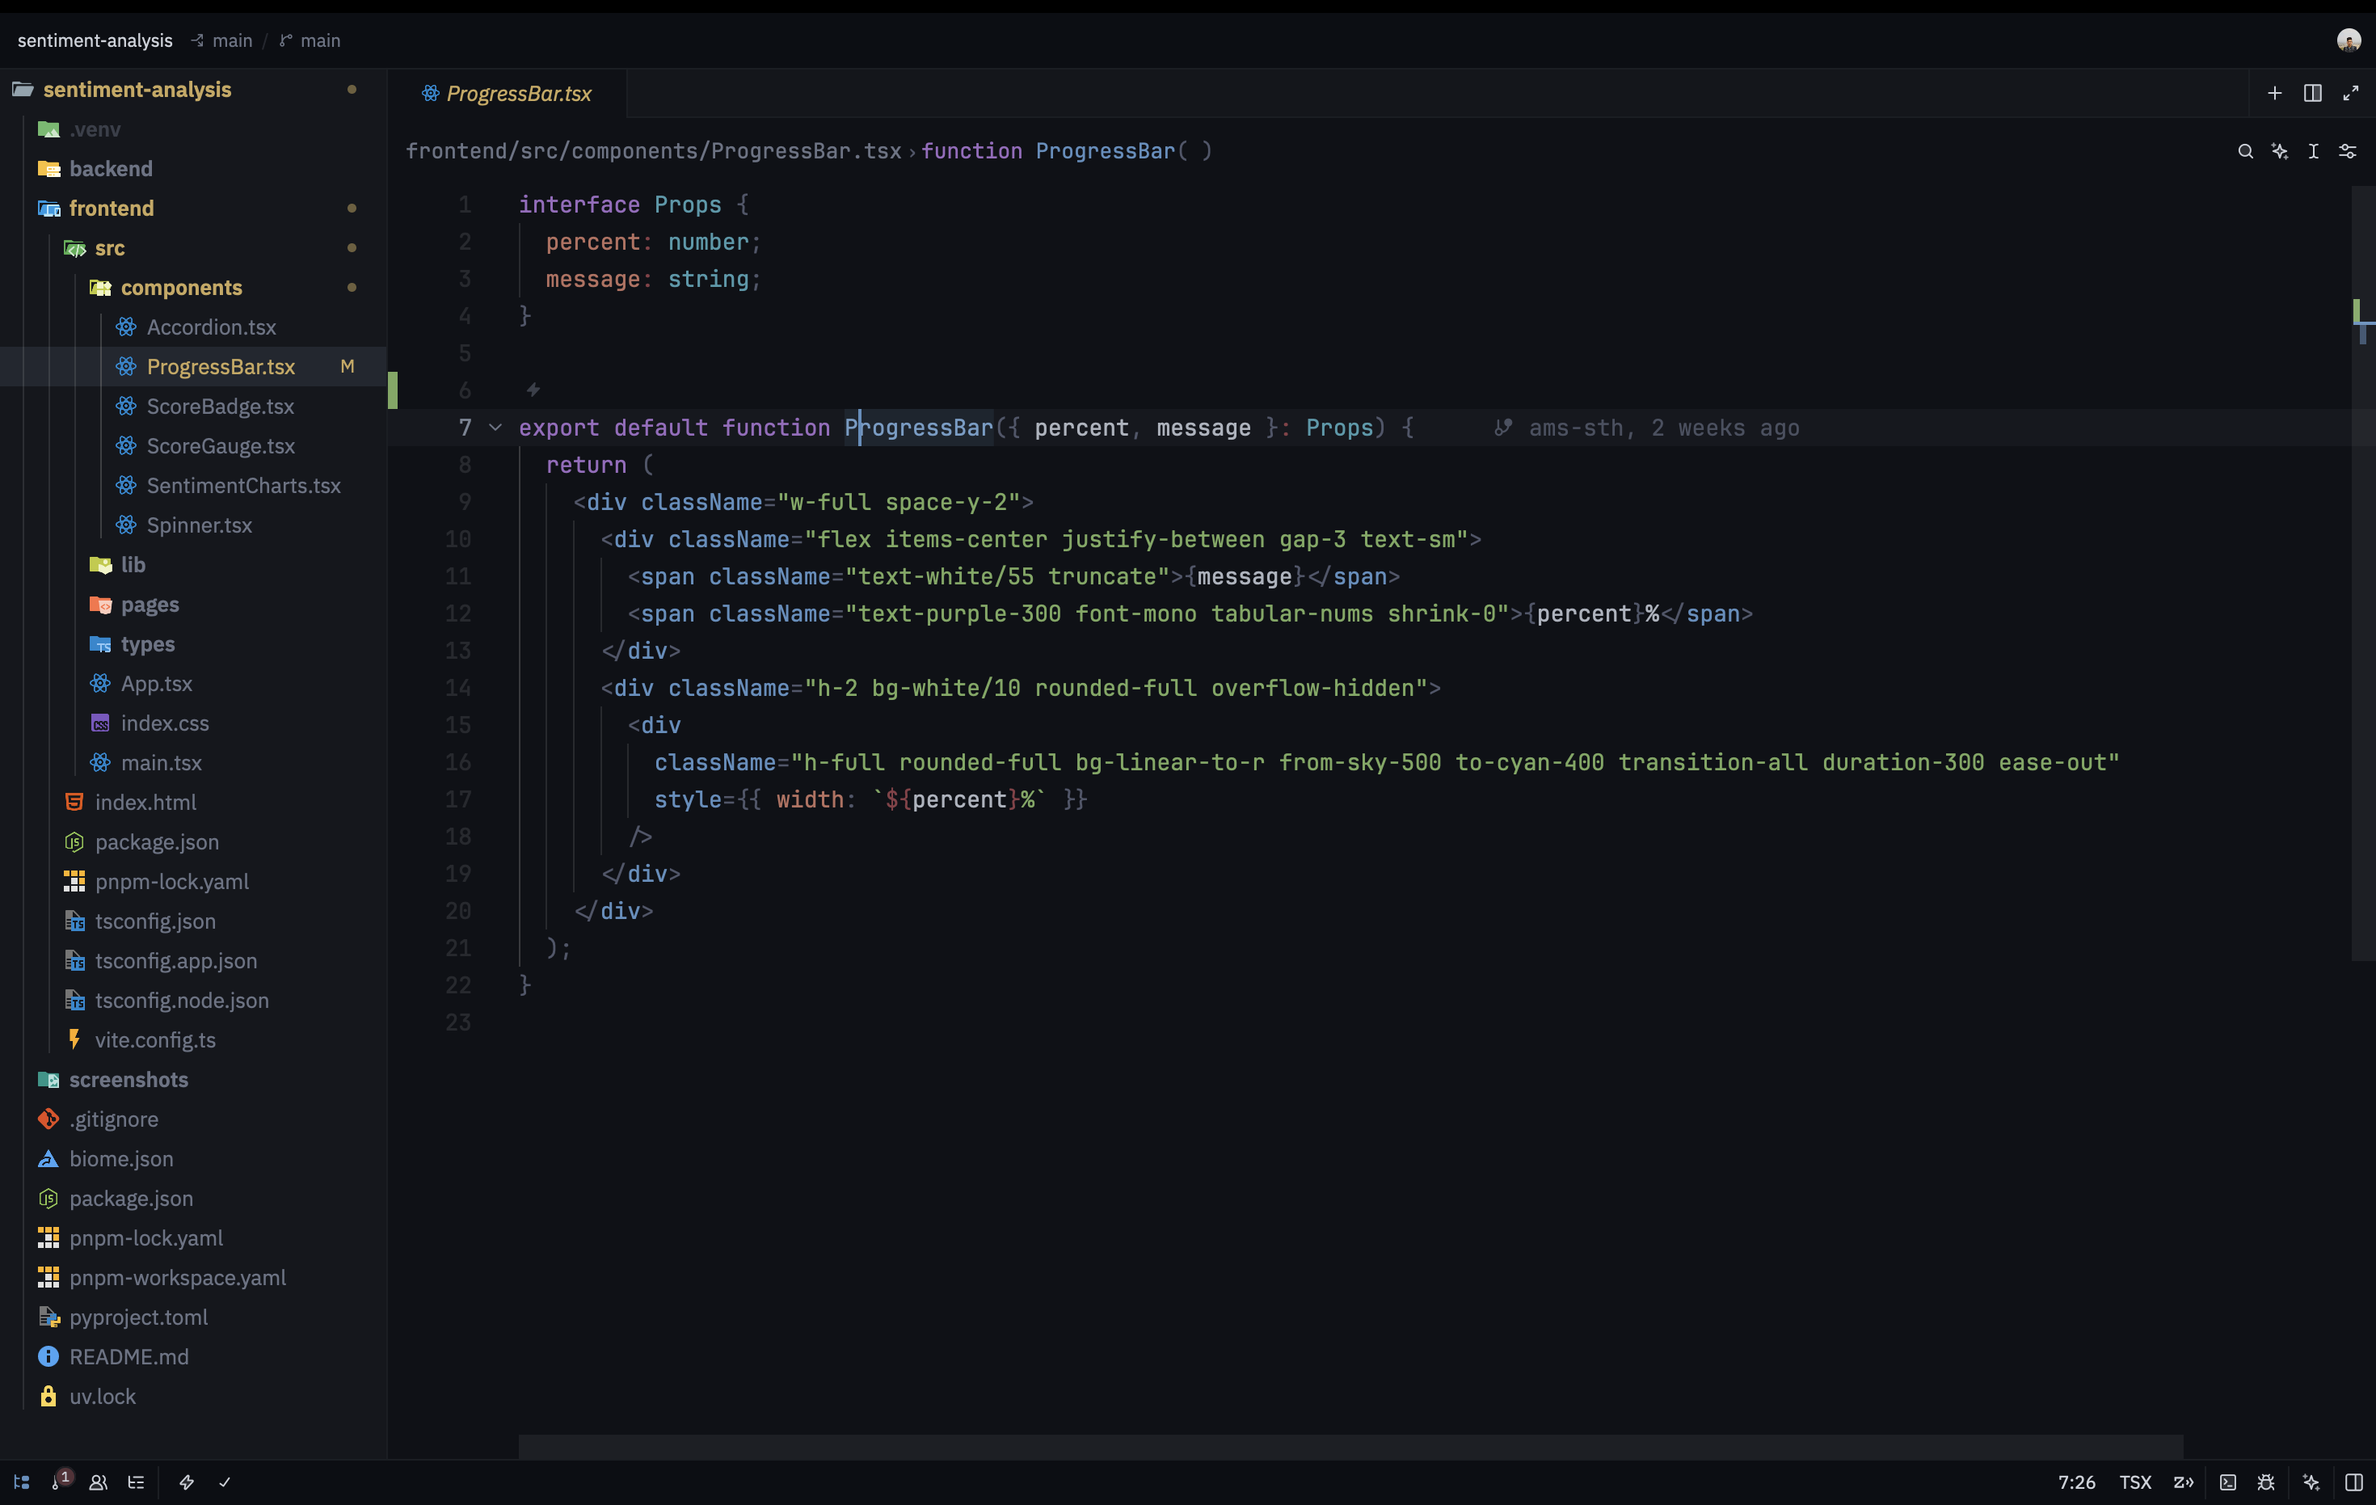
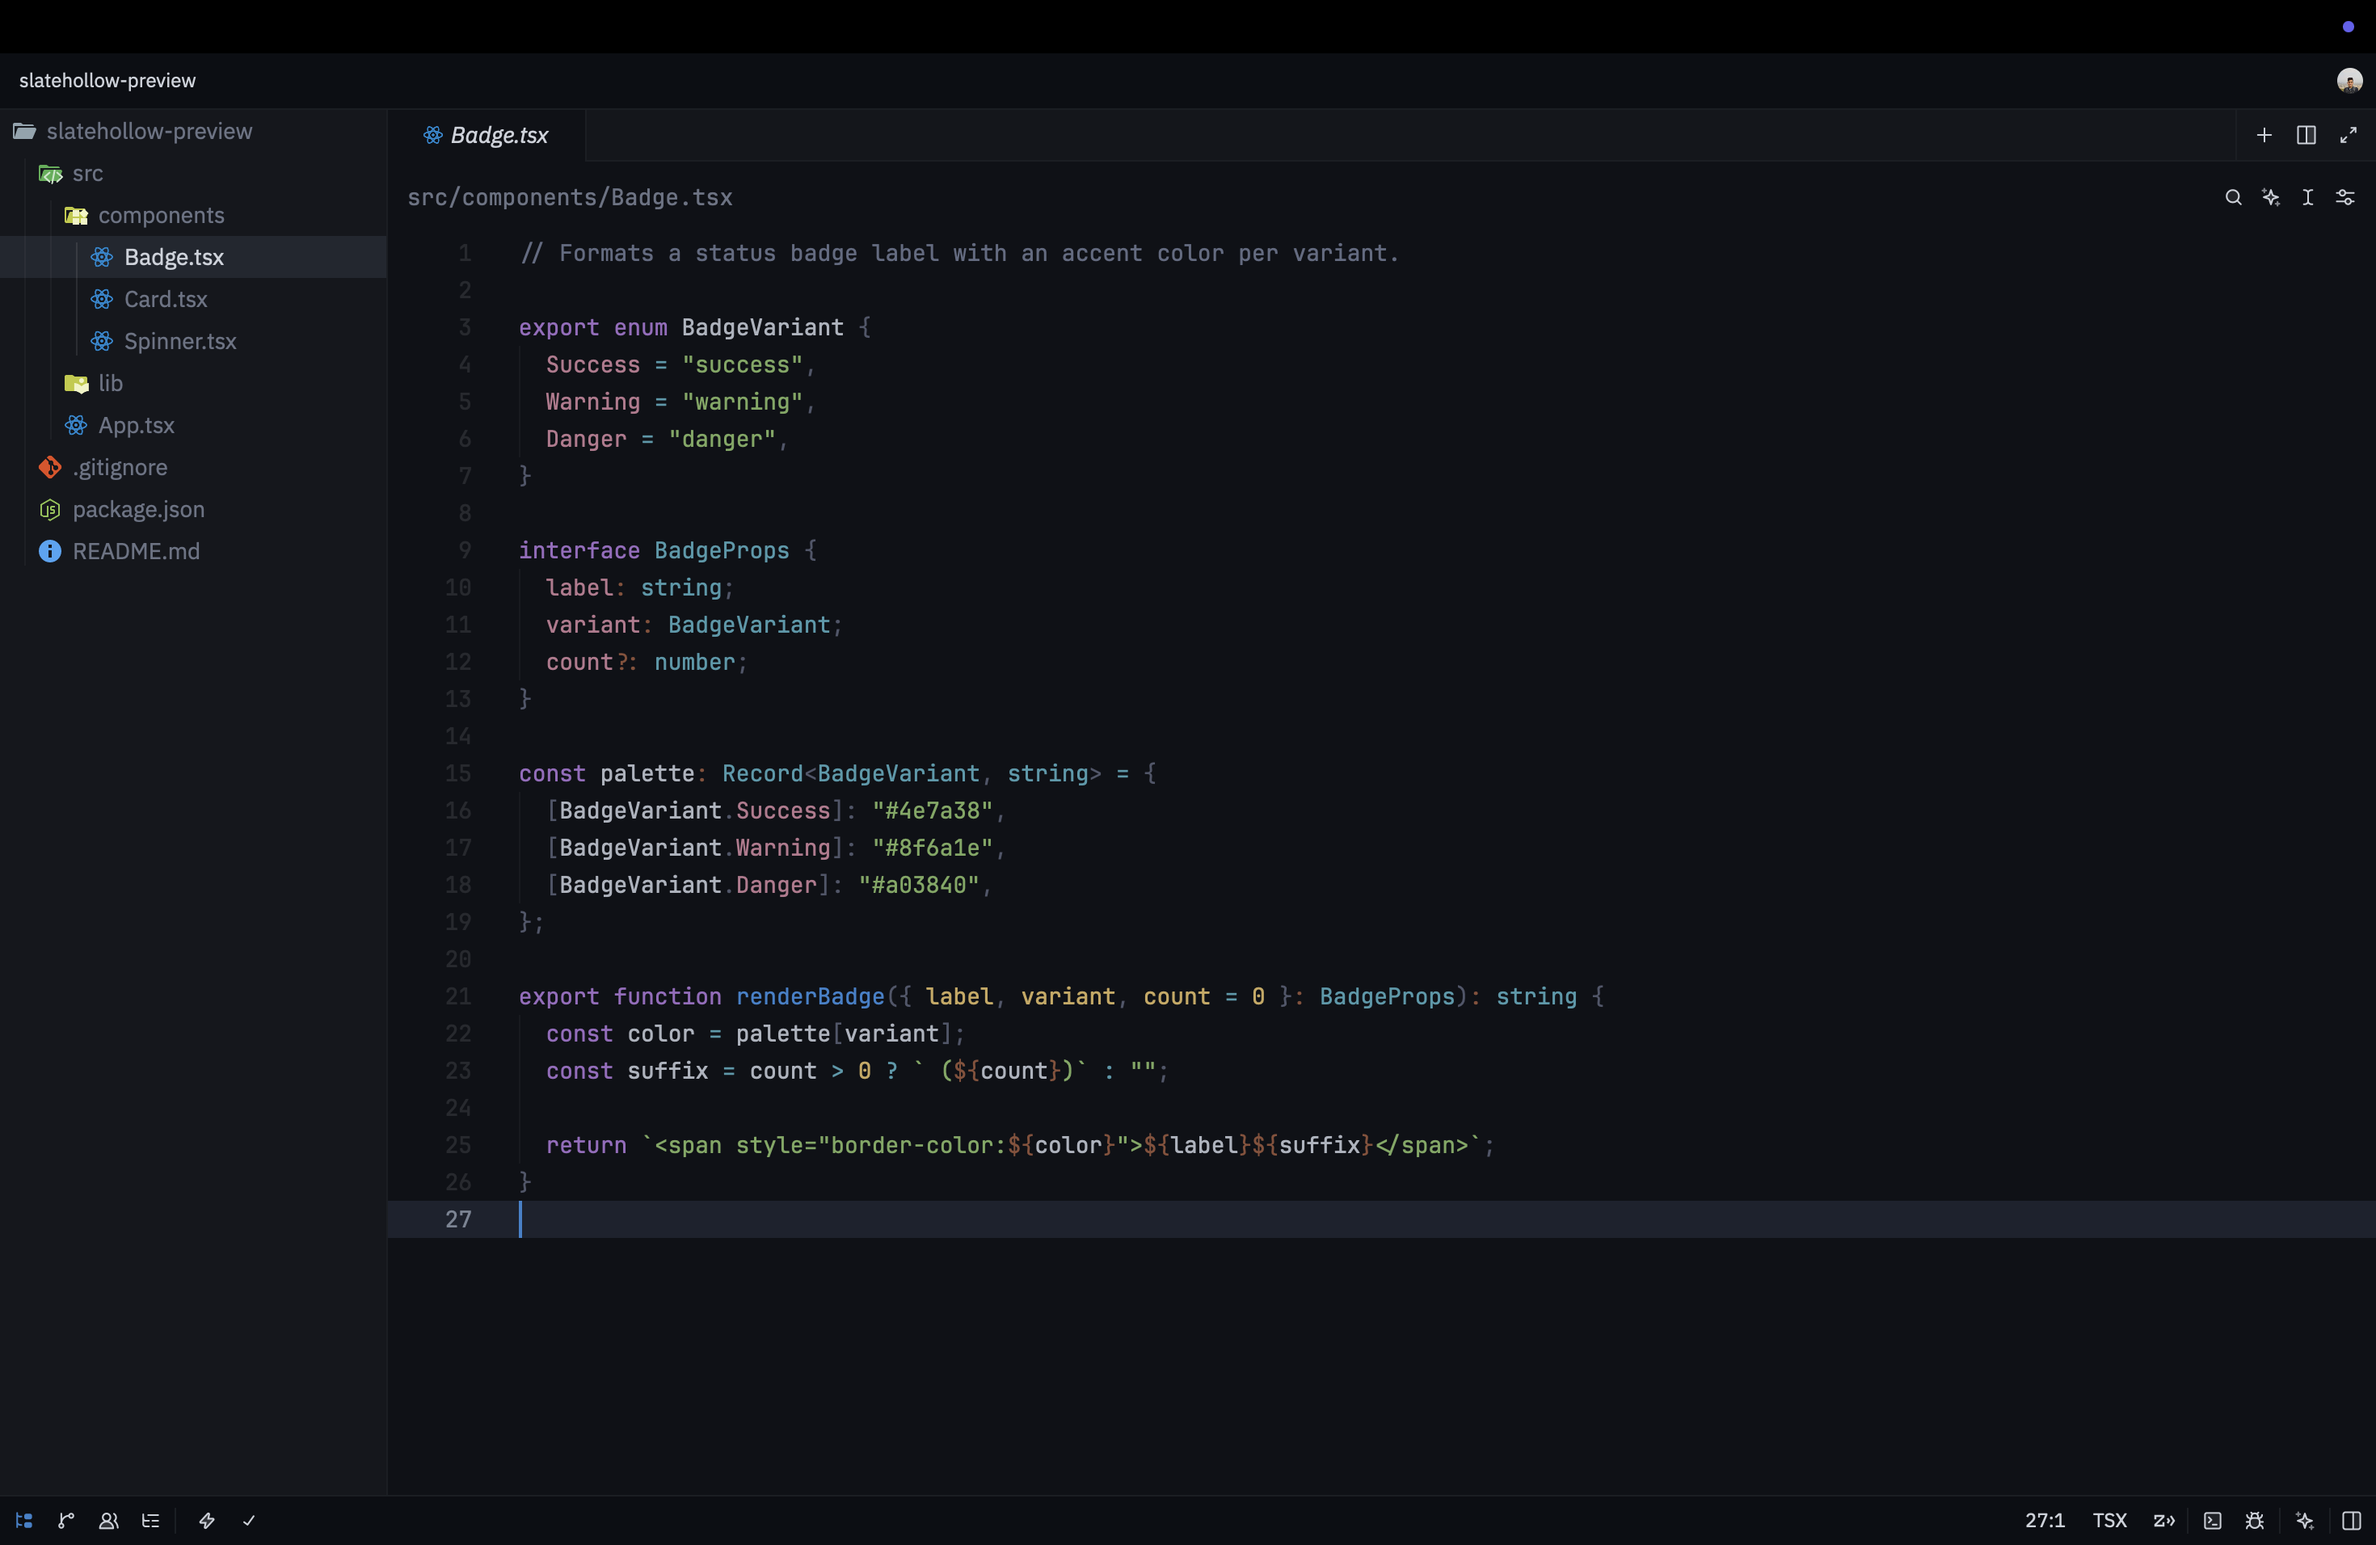
Refine palette contrast and drop stale attribution
- Fix active-line highlight being nearly invisible in both variants
- Improve comment contrast (~2.5:1 -> ~3.5:1) in both variants
- Give enum/title/markup their own color instead of reusing error-red
- Shift accent blue to a more saturated tone
- Remove "Inspired by One Dark Darkened" credit (theme has diverged)
- Update preview screenshots to reflect the new palette

diff --git a/README.md b/README.md
@@ -68,10 +68,4 @@ Configure your theme:
 
 ---
 
-## Credits
-
-Inspired by [One Dark Darkened](https://github.com/pavles6/one-dark-darkened) by Pavle Sokic.
-
----
-
 Made by [Amsh](https://github.com/ams-sth)
